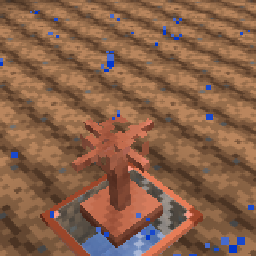
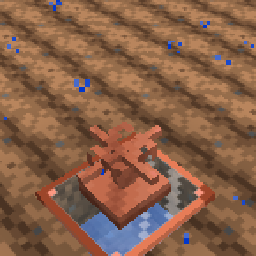
feat: lower the sprinkler head

diff --git a/src/main/java/com/bettervanillacrops/irrigation/SprinklerBlock.java b/src/main/java/com/bettervanillacrops/irrigation/SprinklerBlock.java
@@ -28,8 +28,8 @@ public class SprinklerBlock extends Block implements EntityBlock {
 	public static final BooleanProperty ACTIVE = BlockStateProperties.ENABLED;
 	private static final VoxelShape SHAPE = Shapes.or(
 		Block.box(4, 0, 4, 12, 2, 12),
-		Block.box(7, 2, 7, 9, 11, 9),
-		Block.box(5, 11, 5, 11, 14, 11));
+		Block.box(7, 2, 7, 9, 5, 9),
+		Block.box(5, 5, 5, 11, 8, 11));
 
 	public SprinklerBlock(BlockBehaviour.Properties properties) {
 		super(properties);
